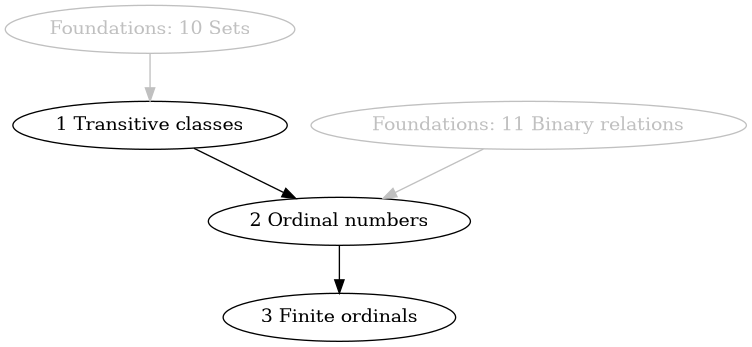
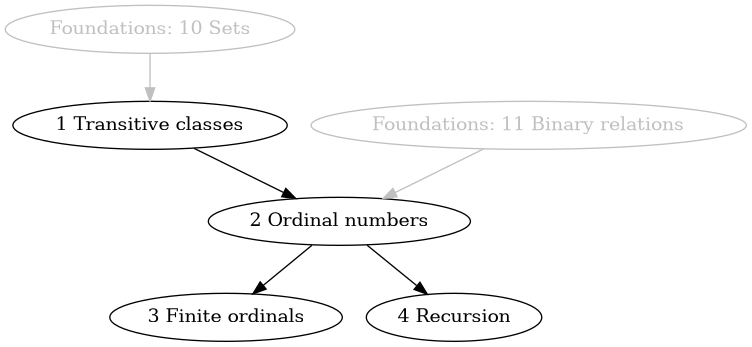
Set theory: Add chapter about recursion

diff --git a/examples/set-theory/sections/04_recursion.ftl.tex b/examples/set-theory/sections/04_recursion.ftl.tex
@@ -1,0 +1,297 @@
+\documentclass[../set-theory.tex]{subfiles}
+
+\begin{document}
+  \chapter{Recursion}
+
+  \readftl{set-theory/sections/04_recursion.ftl.tex}
+
+  \begin{forthel}
+    %[prove off][check off]
+
+    [readtex \path{set-theory/sections/02_ordinals.ftl.tex}]
+
+    %[prove on][check on]
+  \end{forthel}
+
+
+  \begin{forthel}
+    \begin{definition}\printlabel{SET_THEORY_04_7107446027845632}
+      Let $A$ be a class and $\alpha$ be an ordinal.
+      \[ A^{< \alpha} = \class{f | \text{$f$ is a map from $\beta$ to $A$
+      for some ordinal $\beta$ less than $\alpha$}}. \]
+    \end{definition}
+  \end{forthel}
+
+  \begin{forthel}
+    \begin{definition}\printlabel{SET_THEORY_04_1955917673267200}
+      Let $A$ be a class.
+      \[ A^{< \infty} = \class{f | \text{$f$ is a map from $\alpha$ to $A$
+      for some ordinal $\alpha$}}. \]
+    \end{definition}
+  \end{forthel}
+
+  \begin{forthel}
+    \begin{lemma}\printlabel{SET_THEORY_04_7841726894964736}
+      Let $A$ be a class and $f$ be a map to $A$ such that $\dom(f)$ is a
+      transitive subclass of $\Ord$ and $\alpha \in \dom(f)$.
+      Then $f \restriction \alpha \in A^{< \infty}$.
+    \end{lemma}
+  \end{forthel}
+
+  \begin{forthel}
+    \begin{definition}\printlabel{SET_THEORY_04_5597213870784512}
+      Let $H$ be a map and $G : A^{< \infty} \to A$ for some class $A$ such
+      that $H$ is a map to $A$.
+      $H$ is recursive regarding $G$ iff $\dom(H)$ is a transitive subclass of
+      $\Ord$ and for all $\alpha \in \dom(H)$ we have
+      \[ H(\alpha) = G(H \restriction \alpha). \]
+    \end{definition}
+  \end{forthel}
+
+  \begin{forthel}
+    \begin{proposition}\printlabel{SET_THEORY_04_2876133366300672}
+      Let $A$ be a class and $G$ be a map from $A^{< \infty}$ to $A$.
+      Let $H, H'$ be maps to $A$ that are recursive regarding $G$.
+      Then \[ H(\alpha) = H'(\alpha) \]
+      for all $\alpha \in \dom(H) \cap \dom(H')$.
+    \end{proposition}
+    \begin{proof}
+      Define $\Phi = \class{\alpha \in \Ord | \text{if $\alpha \in
+      \dom(H) \cap \dom(H')$ then $H(\alpha) = H'(\alpha)$}}$.
+
+      For all ordinals $\alpha$ if every ordinal less than $\alpha$ lies in
+      $\Phi$ then $\alpha \in \Phi$. \\
+      Proof.
+        Let $\alpha \in \Ord$.
+        Assume that every $y \in \alpha$ lies in $\Phi$.
+
+        Let us show that if $\alpha \in \dom(H) \cap \dom(H')$ then
+        $H(\alpha) = H'(\alpha)$.
+          Suppose $\alpha \in \dom(H) \cap \dom(H')$.
+          Then $\alpha \subseteq \dom(H), \dom(H')$.
+          Indeed $\dom(H)$ and $\dom(H')$ are transitive classes.
+          Hence for all $y \in \alpha$ we have $y \in \dom(H) \cap \dom(H')$.
+          Thus $H(y) = H'(y)$ for all $y \in \alpha$.
+          Therefore $H \restriction \alpha = H' \restriction \alpha$.
+          $H$ and $H'$ are recursive regarding $G$.
+          Hence $H(\alpha)
+            = G(H \restriction \alpha)
+            = G(H' \restriction \alpha)
+            = H'(\alpha)$.
+        End.
+
+        Thus $\alpha \in \Phi$.
+      Qed.
+
+      [prover vampire]
+      Then $\Phi$ contains every ordinal (by
+      \cref{SET_THEORY_15_8493935460614144}).
+      Therefore we have $H(\alpha) = H'(\alpha)$ for all
+      $\alpha \in \dom(H) \cap \dom(H')$.
+    \end{proof}
+  \end{forthel}
+
+  \begin{forthel}
+    \begin{theorem}[Recursion theorem]\printlabel{SET_THEORY_04_3600210873810944}
+      Let $A$ be a class and $G$ be a map from $A^{< \infty}$ to $A$.
+      Then there exists a map $F$ from $\Ord$ to $A$ that is recursive
+      regarding $G$.
+    \end{theorem}
+    \begin{proof}
+      Every ordinal is contained in the domain of some map $H$ to $A$ such that
+      $H$ is recursive regarding $G$. \\
+      Proof.
+        Define \[ \Phi = \class{\alpha \in \Ord | \classtext{$\alpha$ is
+        contained in the domain of some map to $A$ that is recursive regarding
+        $G$}}. \]
+
+        Let us show that for every ordinal $\alpha$ if every ordinal less than
+        $\alpha$ lies in $\Phi$ then $\alpha \in \Phi$.
+          Let $\alpha$ be an ordinal.
+          Assume that every ordinal less than $\alpha$ lies in $\Phi$.
+          Then for all $y \in \alpha$ there exists a map $h$ to $A$ such that
+          $h$ is recursive regarding $G$ and $y \in \dom(h)$.
+          Define $H'(y) =$ ``choose a map $h$ to $A$ such that $h$ is recursive
+          regarding $G$ and $y \in \dom(h)$ in $h(y)$'' for $y \in \alpha$.
+          Then $H'$ is a map from $\alpha$ to $A$.
+          We have $H' = H' \restriction \alpha$.
+          Define \[ H(\beta) =
+            \begin{cases}
+              H'(\beta)                 & : \beta < \alpha \\
+              G(H' \restriction \beta)  & : \beta = \alpha
+            \end{cases} \]
+          for $\beta \in \succ(\alpha)$.
+          Then $H \restriction \beta \in A^{< \infty}$ for all $\beta \in
+          \dom(H)$.
+
+          (a) $\dom(H)$ is a transitive subclass of $\Ord$.
+
+          (b) For all $\beta \in \dom(H)$ we have $H(\beta) =
+          G(H \restriction \beta)$. \\
+          Proof.
+            Let $\beta \in \dom(H)$.
+            Then $\beta < \alpha$ or $\beta = \alpha$.
+
+            Case $\beta < \alpha$.
+              Choose a map $h$ to $A$ such that $h$ is recursive regarding $G$
+              and $\beta \in \dom(h)$ and $H'(\beta) = h(\beta)$.
+              
+              Let us show that for all $y \in \beta$ we have $h(y) = H(y)$.
+                Let $y \in \beta$.
+                Then $H(y) = H'(y)$.
+                Choose a map $h'$ to $A$ such that $h'$ is recursive regarding
+                $G$ and $y \in \dom(h')$ and $H'(y) = h'(y)$.
+                [prover vampire]
+                Then $h'(y) = h(y)$ (by \cref{SET_THEORY_04_2876133366300672}).
+                Indeed $y \in \dom(h) \cap \dom(h')$.
+              End.
+
+              Hence $h \restriction \beta = H \restriction \beta$.
+              Thus $H(\beta)
+                = H'(\beta)
+                = h(\beta)
+                = G(h \restriction \beta)
+                = G(H \restriction \beta)$.
+            End.
+
+            Case $\beta = \alpha$.
+              We have $H \restriction \alpha = H' \restriction \alpha$.
+            End.
+          Qed.
+
+          Hence $H$ is a map to $A$ such that $H$ is recursive regarding $G$ and
+          $\alpha \in \dom(H)$.
+          Thus $\alpha \in \Phi$.
+        End.
+
+        [prover vampire]
+        Therefore $\Phi$ contains every ordinal (by
+        \cref{SET_THEORY_15_8493935460614144}).
+        Consequently every ordinal is contained in the domain of some map $H$ to
+        $A$ such that $H$ is recursive regarding $G$.
+      Qed.
+
+      Define $F(\alpha) =$ ``choose a map $H$ to $A$ such that $H$ is recursive
+      regarding $G$ and $\alpha \in \dom(H)$ in $H(\alpha)$'' for
+      $\alpha \in \Ord$.
+      Then $F$ is a map from $\Ord$ to $A$.
+
+      $F$ is recursive regarding $G$. \\
+      Proof.
+        (a) $\dom(F)$ is a transitive subclass of $\Ord$.
+
+        (b) For all $\alpha \in \Ord$ we have $F(\alpha) =
+        G(F \restriction \alpha)$. \\
+        Proof.
+          Let $\alpha \in \Ord$.
+          Choose a map $H$ to $A$ such that $H$ is recursive regarding $G$ and
+          $\alpha \in \dom(H)$ and $F(\alpha) = H(\alpha)$.
+
+          Let us show that $F(\beta) = H(\beta)$ for all $\beta \in \alpha$.
+            Let $\beta \in \alpha$.
+            Choose a map $H'$ to $A$ such that $H'$ is recursive regarding $G$
+            and $\beta \in \dom(H')$ and $F(\beta) = H'(\beta)$.
+            [prover vampire]
+            Then $H(\beta) = H'(\beta)$ (by
+            \cref{SET_THEORY_04_2876133366300672}).
+            Indeed $\beta \in \dom(H) \cap \dom(H')$.
+            Therefore $F(\beta) = H'(\beta)$.
+          End.
+
+          Hence $H \restriction \alpha = F \restriction \alpha$.
+          Thus $F(\alpha)
+            = H(\alpha)
+            = G(H \restriction \alpha)
+            = G(F \restriction \alpha)$.
+        Qed.
+      Qed.
+    \end{proof}
+  \end{forthel}
+
+  \begin{forthel}
+    \begin{theorem}\printlabel{SET_THEORY_04_1787371569807360}
+      Let $A$ be a class and $G$ be a map from $A^{< \infty}$ to $A$.
+      Let $F, F'$ be maps from $\Ord$ to $A$ that are recursive regarding $G$.
+      Then $F = F'$.
+    \end{theorem}
+    \begin{proof}
+      $F$ and $F'$ are recursive regarding $G$.
+      [prover vampire]
+      Then $F(\alpha) = F'(\alpha)$ for all $\alpha \in \dom(F) \cap \dom(F')$
+      (by \cref{SET_THEORY_04_2876133366300672}).
+      Indeed let $\alpha \in \dom(F) \cap \dom(F')$. % Looks redundant but the prover needs this step...
+      We have $\dom(F) = \Ord = \dom(F')$.
+      Hence $F(\alpha) = F'(\alpha)$ for all $\alpha \in \Ord$.
+      Thus $F = F'$.
+    \end{proof}
+  \end{forthel}
+
+  \begin{forthel}
+    \begin{theorem}\printlabel{SET_THEORY_04_8446954438656000}
+      Let $A$ be a class.
+      Let $a \in A$ and $G : \Ord \times A \to A$ and
+      $H : \Ord \times A^{< \infty} \to A$.
+      Then there exists a map $F$ from $\Ord$ to $A$ such that
+      \[ F(0) = a \]
+      and for all ordinals $\alpha$ we have
+      \[ F(\succ(\alpha)) = G(\alpha, F(\alpha)) \]
+      and for all limit ordinals $\lambda$ we have
+      \[ F(\lambda) = H(\lambda, F \restriction \lambda). \]
+    \end{theorem}
+    \begin{proof}
+      Define  \[ J(f) =
+        \begin{cases}
+          a
+          & : \dom(f) = 0
+          \\
+          G(\pred(\dom(f)), f(\pred(\dom(f))))
+          & : \text{$\dom(f)$ is a successor ordinal}
+          \\
+          H(\dom(f), f)
+          & : \text{$\dom(f)$ is a limit ordinal}
+        \end{cases} \]
+      for $f \in A^{< \infty}$.
+
+      Then $J$ is a map from $A^{< \infty}$ to $A$.
+      Indeed we can show that for any $f \in A^{< \infty}$ we have $J(f) \in A$.
+        Let $f \in A^{< \infty}$.
+        Take $\alpha \in \Ord$ such that $f : \alpha \to A$.
+        If $\alpha = 0$ then $J(f) = a \in A$.
+        If $\alpha$ is a successor ordinal then $J(f) =
+        G(\pred(\alpha), f(\pred(\alpha))) \in A$.
+        If $\alpha$ is a limit ordinal then $J(f) = H(\alpha, f) \in A$.
+      End.
+
+      Hence we can take a map $F$ from $\Ord$ to $A$ that is recursive regarding
+      $J$.
+      Then $F \restriction \alpha \in A^{< \infty}$ for any ordinal $\alpha$.
+
+      (1) $F(0) = a$. \\
+      Proof.
+        $F(0)
+          = J(F \restriction 0)
+          = a$.
+      Qed.
+
+      (2) $F(\succ(\alpha)) = G(\alpha, F(\alpha))$ for all ordinals
+      $\alpha$. \\
+      Proof.
+        Let $\alpha$ be an ordinal.
+        Then $F(\succ(\alpha))
+          = J(F \restriction \succ(\alpha))
+          = G(\pred(\succ(\alpha)), (F \restriction \succ(\alpha))(\pred(\succ(\alpha))))
+          = G(\alpha, (F \restriction \succ(\alpha))(\alpha))
+          = G(\alpha, F(\alpha))$.
+      Qed.
+
+      (3) $F(\lambda) = H(\lambda, F \restriction \lambda)$ for all limit
+      ordinals $\lambda$. \\
+      Proof.
+        Let $\lambda$ be a limit ordinal.
+        Then $F(\lambda)
+          = J(F \restriction \lambda)
+          = H(\lambda, F \restriction \lambda)$.
+      Qed.
+    \end{proof}
+  \end{forthel}
+\end{document}

diff --git a/examples/set-theory/set-theory.tex b/examples/set-theory/set-theory.tex
@@ -28,4 +28,5 @@
   \subfile{sections/01_transitive-classes.ftl.tex}
   \subfile{sections/02_ordinals.ftl.tex}
   \subfile{sections/03_finite-ordinals.ftl.tex}
+  \subfile{sections/04_recursion.ftl.tex}
 \end{document}
